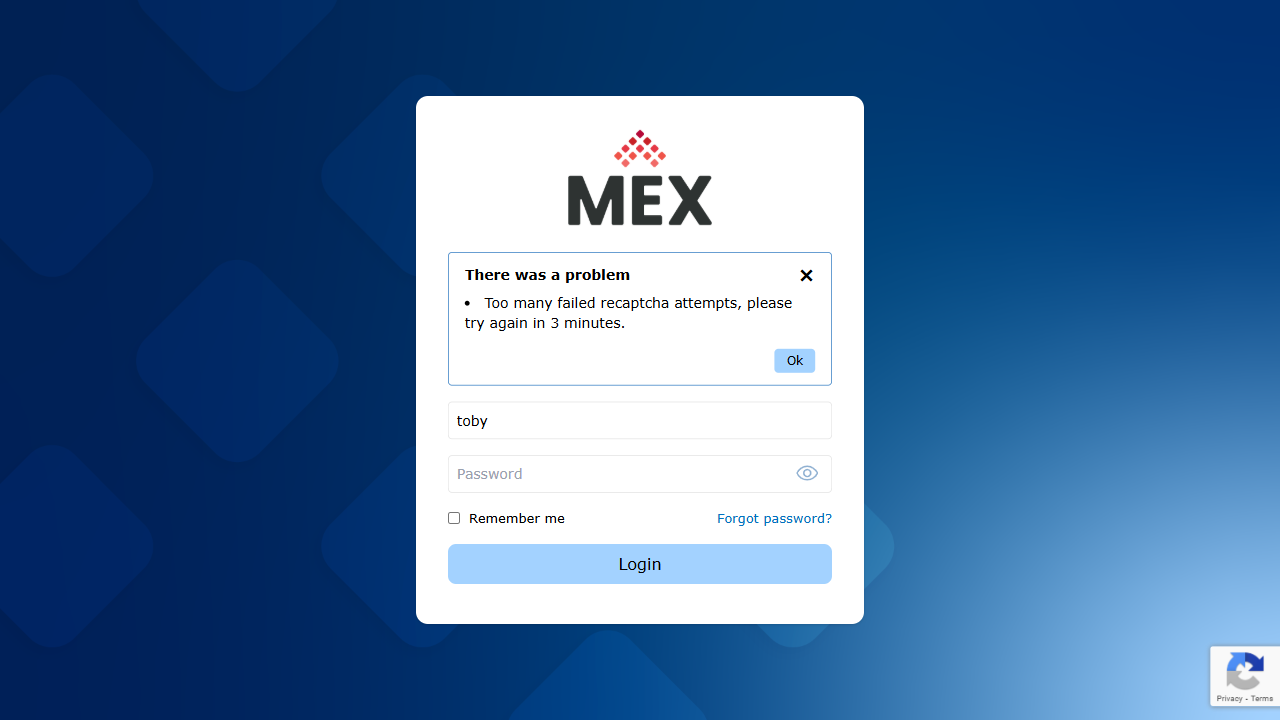
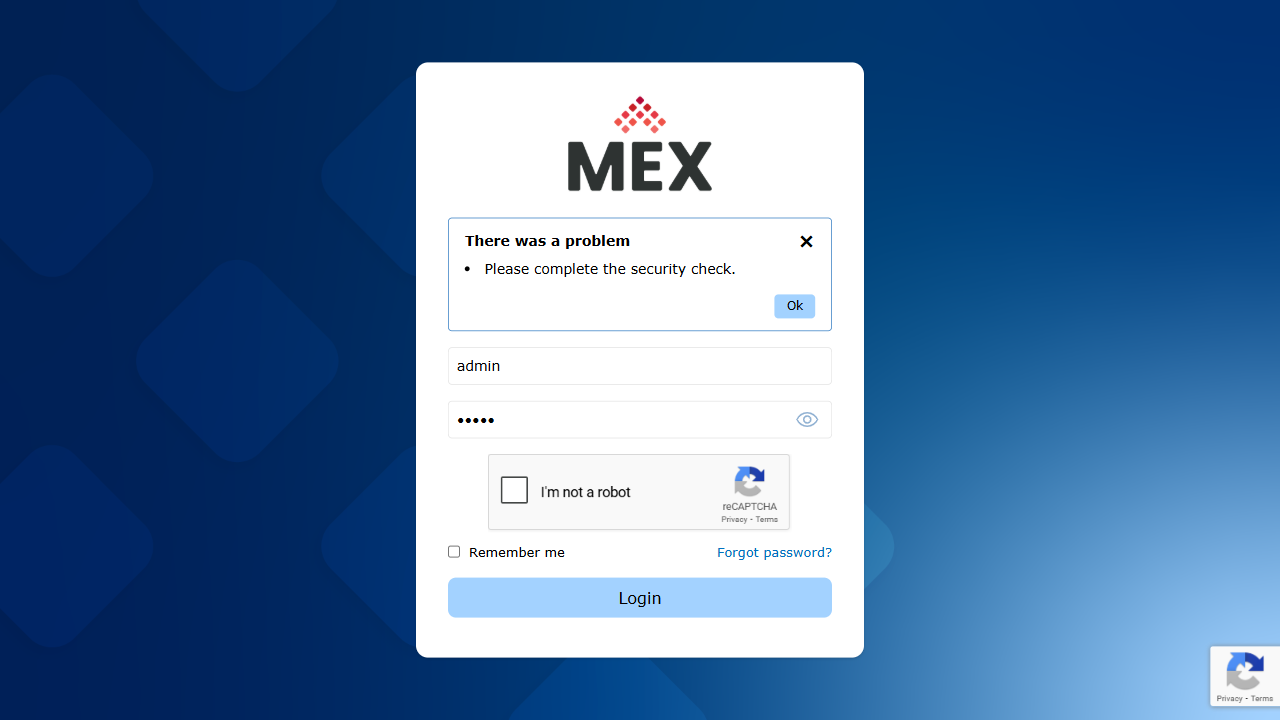
CI Test

diff --git a/debug/login-bounced.html b/debug/login-bounced.html
@@ -32,7 +32,7 @@
                     </div>
                     <div class="space-y-1">
                             <ul class="list-disc list-inside text-primary" automation-list="validationErrors">
-                                        <li automation_label="0">Too many failed recaptcha attempts, please try again in 3 minutes.</li>
+                                        <li automation_label="0">Please complete the security check.</li>
                             </ul>
                     </div>
                     <div class="mt-4 flex justify-end gap-2">
@@ -43,7 +43,7 @@
                 </div>
 
             <div class="w-full border border-solid border-secondary bg-primary rounded mb-4 py-1 text-primary">
-                <input placeholder="Username" class="text-sm w-full px-2 focus:outline-none focus:ring-0 placeholder-gray-400 dark:placeholder-gray-500" aria-required="true" automation-input="userName" type="text" id="Input_UserName" name="Input.UserName" value="toby" style="">
+                <input placeholder="Username" class="text-sm w-full px-2 focus:outline-none focus:ring-0 placeholder-gray-400 dark:placeholder-gray-500" aria-required="true" automation-input="userName" type="text" id="Input_UserName" name="Input.UserName" value="admin" style="">
             </div>
 
             <div class="relative w-full border border-solid border-secondary bg-primary rounded mb-4 py-1 text-primary">
@@ -57,6 +57,12 @@
                 </button>
             </div>
 
+                <script type="text/javascript" async="" charset="utf-8" src="https://www.gstatic.com/recaptcha/releases/7gg7H51Q-naNfhmCP3_R47ho/recaptcha__en.js" crossorigin="anonymous" integrity="sha384-TnttG+UhZcM8I0YLwHFXmjuU0uVv/3X99Itc+0eiXTiqtrwYAZwNs8Q9WliKgfF8"></script><script>
+                    document.addEventListener('DOMContentLoaded', function () {
+                        showRecaptchaV2("loginForm");
+                    });
+                </script>
+                <div id="recaptchaV2" class="g-recaptcha" data-sitekey="6LdaFuErAAAAANh8FyOafajA9uOJO2cz9-OZn0qT" data-theme="light" style="display: flex; justify-content: center; padding-bottom: 10px;"><div style="width: 304px; height: 78px;"><div><iframe title="reCAPTCHA" width="304" height="78" role="presentation" name="a-fhag9skqpdxg" frameborder="0" scrolling="no" sandbox="allow-forms allow-popups allow-same-origin allow-scripts allow-top-navigation allow-modals allow-popups-to-escape-sandbox allow-storage-access-by-user-activation" src="https://www.google.com/recaptcha/api2/anchor?ar=1&amp;k=6LdaFuErAAAAANh8FyOafajA9uOJO2cz9-OZn0qT&amp;co=aHR0cHM6Ly9wci0zMzUxLm1leDE2LmRldjo0NDM.&amp;hl=en&amp;v=7gg7H51Q-naNfhmCP3_R47ho&amp;theme=light&amp;size=normal&amp;anchor-ms=20000&amp;execute-ms=15000&amp;cb=ud2y5mug3lnn"></iframe></div><textarea id="g-recaptcha-response" name="g-recaptcha-response" class="g-recaptcha-response" style="width: 250px; height: 40px; border: 1px solid rgb(193, 193, 193); margin: 10px 25px; padding: 0px; resize: none; display: none;"></textarea></div></div>
 
             <div class="flex items-center justify-between mb-4 text-[13px]">
                 <label class="flex items-center space-x-2">
@@ -72,14 +78,14 @@
 
 
             <input type="hidden" data-val="true" data-val-required="The IsFromMauiClient field is required." id="IsFromMauiClient" name="IsFromMauiClient" value="False" style="">
-        <input name="__RequestVerificationToken" type="hidden" value="CfDJ8ADMg_ZIzndKrWSxq6bdYuMOmxz_lgrO2DahtCZ9Hs8XbLtETpENXJ86lDk7mM16YPQcxGgvk89PVsU7V37BVh6I3pcdRnu7Wx7lf7sUKP9nTOWqp8l1A0-6h7Tj9ZUb47JUs4bQh4VL_bVwIBMcV2A" style=""><input name="Input.RememberMe" type="hidden" value="false" style=""></form>
+        <input name="__RequestVerificationToken" type="hidden" value="CfDJ8AWZ1D6VnrpOv_iNUjxlEgw1f5JD2LcRh4Pac-zzihDKfDX6CXt2yUwyc930PU5ns6lUnwEbzKJY-nObsggNYvsfyAjaF0t1xmaU-baP8iYgkpJE1eKMjM8odKNynEclm4yRngJi9vBVhkCCM2Xx40c" style=""><input name="Input.RememberMe" type="hidden" value="false" style=""></form>
     </div>
 </div>
 
 
     </main>
 
-    <script type="text/javascript" async="" charset="utf-8" src="https://www.gstatic.com/recaptcha/releases/TkacYOdEJbdB_JjX802TMer9/recaptcha__en.js" crossorigin="anonymous" integrity="sha384-Ft89l3aihBBhSrkZ/Syx/7cCCaryQcJICINmdoWVHhaQefSnqabq/akNl06biiHi"></script><script>
+    <script>
         function togglePasswordVisibility() {
             const input = document.getElementById('password');
             if (!input) return;
@@ -214,4 +220,4 @@
 
 
 
-<div><div class="grecaptcha-badge" data-style="bottomright" style="width: 256px; height: 60px; display: block; transition: right 0.3s; position: fixed; bottom: 14px; right: -186px; box-shadow: gray 0px 0px 5px; border-radius: 2px; overflow: hidden;"><div class="grecaptcha-logo"><iframe title="reCAPTCHA" width="256" height="60" role="presentation" name="a-uruocjae2by2" frameborder="0" scrolling="no" sandbox="allow-forms allow-popups allow-same-origin allow-scripts allow-top-navigation allow-modals allow-popups-to-escape-sandbox allow-storage-access-by-user-activation" src="https://www.google.com/recaptcha/api2/anchor?ar=1&amp;k=6LfME-ErAAAAAMGD0xI-MqKKpRkzp2BPFx9gaqnX&amp;co=aHR0cHM6Ly9ib25uaWUubWV4LmNvbS5hdTo0NDM.&amp;hl=en&amp;v=TkacYOdEJbdB_JjX802TMer9&amp;size=invisible&amp;anchor-ms=20000&amp;execute-ms=15000&amp;cb=zd0l9eszo6a8"></iframe></div><div class="grecaptcha-error"></div><textarea id="g-recaptcha-response-100000" name="g-recaptcha-response" class="g-recaptcha-response" style="width: 250px; height: 40px; border: 1px solid rgb(193, 193, 193); margin: 10px 25px; padding: 0px; resize: none; display: none;"></textarea></div><iframe style="display: none;"></iframe></div></body></html>
+<div><div class="grecaptcha-badge" data-style="bottomright" style="width: 256px; height: 60px; display: block; transition: right 0.3s; position: fixed; bottom: 14px; right: -186px; box-shadow: gray 0px 0px 5px; border-radius: 2px; overflow: hidden;"><div class="grecaptcha-logo"><iframe title="reCAPTCHA" width="256" height="60" role="presentation" name="a-h21m0ln9npzu" frameborder="0" scrolling="no" sandbox="allow-forms allow-popups allow-same-origin allow-scripts allow-top-navigation allow-modals allow-popups-to-escape-sandbox allow-storage-access-by-user-activation" src="https://www.google.com/recaptcha/api2/anchor?ar=1&amp;k=6LfME-ErAAAAAMGD0xI-MqKKpRkzp2BPFx9gaqnX&amp;co=aHR0cHM6Ly9wci0zMzUxLm1leDE2LmRldjo0NDM.&amp;hl=en&amp;v=7gg7H51Q-naNfhmCP3_R47ho&amp;size=invisible&amp;anchor-ms=20000&amp;execute-ms=15000&amp;cb=me79dij1igdx"></iframe></div><div class="grecaptcha-error"></div><textarea id="g-recaptcha-response-100000" name="g-recaptcha-response" class="g-recaptcha-response" style="width: 250px; height: 40px; border: 1px solid rgb(193, 193, 193); margin: 10px 25px; padding: 0px; resize: none; display: none;"></textarea></div><iframe style="display: none;"></iframe></div><div style="background-color: rgb(255, 255, 255); border: 1px solid rgb(204, 204, 204); box-shadow: rgba(0, 0, 0, 0.2) 2px 2px 3px; position: absolute; transition: visibility linear 0.3s, opacity 0.3s linear; opacity: 0; visibility: hidden; z-index: 2000000000; left: 0px; top: -10000px;"><div style="width: 100%; height: 100%; position: fixed; top: 0px; left: 0px; z-index: 2000000000; background-color: rgb(255, 255, 255); opacity: 0.05;"></div><div class="g-recaptcha-bubble-arrow" style="border: 11px solid transparent; width: 0px; height: 0px; position: absolute; pointer-events: none; margin-top: -11px; z-index: 2000000000;"></div><div class="g-recaptcha-bubble-arrow" style="border: 10px solid transparent; width: 0px; height: 0px; position: absolute; pointer-events: none; margin-top: -10px; z-index: 2000000000;"></div><div style="z-index: 2000000000; position: relative;"><iframe title="recaptcha challenge expires in two minutes" name="c-fhag9skqpdxg" frameborder="0" scrolling="no" sandbox="allow-forms allow-popups allow-same-origin allow-scripts allow-top-navigation allow-modals allow-popups-to-escape-sandbox allow-storage-access-by-user-activation" src="https://www.google.com/recaptcha/api2/bframe?hl=en&amp;v=7gg7H51Q-naNfhmCP3_R47ho&amp;k=6LdaFuErAAAAANh8FyOafajA9uOJO2cz9-OZn0qT&amp;bft=0dAFcWeA7m56lM13bvqeseUFj1pqA0yXlrABAJXaQ75-ME_4djKFg76KGux65GtmkhLdAi8hRKQaakRDy9seuDPVDs7Cg63q9Xvg" style="width: 100%; height: 100%;"></iframe></div></div></body></html>

diff --git a/tests/fixtures.ts b/tests/fixtures.ts
@@ -7,6 +7,7 @@ import { LoginPage } from '../pages/login/loginPage';
 import { AssetPage } from '../pages/assets/assetPage';
 import { WoPage } from '../pages/workorders/woPage';
 import { PoPage } from '../pages/purchaseorder/poPage';
+import { CataloguePage } from '../pages/catalogue/cataloguePage';
 
 import createAssetData from '../test-data/assets/createAssetData.json';
 import assetDetailsTabData from '../test-data/assets/assetDetailsDetailsTabData.json';
@@ -14,12 +15,14 @@ import assetExtendedTabData from '../test-data/assets/assetDetailsExtendedTabDat
 import createWorkOrderData from '../test-data/work-orders/createWorkOrderData.json';
 import woDetailsTabData from '../test-data/work-orders/woDetailsTabData.json';
 import addWOSpareData from '../test-data/work-orders/woSparesTabData.json';
+import createCatalogueData from '../test-data/catalogue/createCatalogueData.json';
 import createPurchaseOrderData from '../test-data/purchase-orders/createPurchaseOrderData.json';
 
 type MyFixtures = {
   loginPage: LoginPage;
   assetPage: AssetPage;
   woPage: WoPage;
+  cataloguePage: CataloguePage;
   poPage: PoPage;
   poTestData: { createpo: typeof createPurchaseOrderData };
   assetTestData: {
@@ -32,47 +35,55 @@ type MyFixtures = {
     wodetails: typeof woDetailsTabData;
     wospares: typeof addWOSpareData;
   };
+  catalogueTestData: {
+    createcatalogue: typeof createCatalogueData;
+  };  
   assetDataFilePath: string;
   poDataFilePath: string;
+  catalogueFilePath: string;
   woDataFilePath: string;
 };
 
 export const test = baseTest.extend<MyFixtures>({  
-  page: async ({ page }, use) => {
-    const loginPage = new LoginPage(page);
+  
+ // page: async ({ page }, use) => {
+ //   const loginPage = new LoginPage(page);
 
     /*
      Due to the login page loads twice, the following login steps have to run twice.
      Once the recaptcha issue is resolved, the baseURL + storageState code can be removed.
      */
-    await page.goto('/Home?baseRoute=true'); // baseURL + storageState handles auth
-    await loginPage.assertLoginSuccess();
+    //await loginPage.assertLoginSuccess();
+    //await page.goto('/Home?baseRoute=true'); // baseURL + storageState handles auth
+  //  await page.goto('https://staging-automation-test.mex16.dev/');
 
     // Optional small delay for stability
-    await page.waitForTimeout(500);    
+    //await page.waitForTimeout(500);    
     
-    await page.goto('/Home?baseRoute=true'); // baseURL + storageState handles auth
-    await loginPage.assertLoginSuccess();
+    //await page.goto('/Home?baseRoute=true'); // baseURL + storageState handles auth
+  //  await loginPage.assertLoginSuccess();
 
     // ✅ Wait for the Home header to confirm successful login
-    //const homeHeader = page.locator('[automation-header="HomeHeader"]');
-    //await expect(homeHeader).toBeVisible({ timeout: 10000 }); // Wait up to 10s
+  //  const homeHeader = page.locator('[automation-header="HomeHeader"]');
+  //  await expect(homeHeader).toBeVisible({ timeout: 10000 }); // Wait up to 10s
 
     // Optional small delay for stability
-    await page.waitForTimeout(500);
+  //  await page.waitForTimeout(500);
 
 
-    await use(page);
-  },
+  //  await use(page);
+  //},
+  
   // Keep the loginPage fixture for other pages to use
   loginPage: async ({ page }, use) => {
     console.log('🔐 Navigating to login page...');
     const loginPage = new LoginPage(page);
+    await loginPage.navigate();
     // ✅ Perform login (UI interaction still happens)
-    //await loginPage.login(
-    //  loginPage.credentials.validCredentials.username,
-    //  loginPage.credentials.validCredentials.password
-    //);
+    await loginPage.login(
+      loginPage.credentials.validCredentials.username,
+      loginPage.credentials.validCredentials.password
+    );
 
     await use(loginPage);
   },
@@ -84,10 +95,16 @@ export const test = baseTest.extend<MyFixtures>({
     await use(assetPage);
   },
 
-  woPage: async ({ page }, use) => {
+  woPage: async ({ page, loginPage }, use) => {
     const woPage = new WoPage(page);
     await woPage.openWOModule();
     await use(woPage);
+  },
+
+  cataloguePage: async ({ page, loginPage }, use) => {
+    const cataloguePage = new CataloguePage(page);
+    await cataloguePage.openCatalogueModule();
+    await use(cataloguePage);
   },
 
   poPage: async ({ page, loginPage }, use) => {

diff --git a/playwright.config.ts b/playwright.config.ts
@@ -1,57 +1,52 @@
-
-// playwright.config.ts
 import { defineConfig, devices } from '@playwright/test';
-import path from 'path';
-import fs from 'fs';
 
-const BASE_URL = process.env.BASE_URL || 'https://bonnie.mexcmms.com/Account/Login';
-const STORAGE_PATH = path.resolve(__dirname, 'auth-storage.json');
+/**
+ * Read environment variables from file.
+ * https://github.com/motdotla/dotenv
+ */
+// import dotenv from 'dotenv';
+// import path from 'path';
+// dotenv.config({ path: path.resolve(__dirname, '.env') });
 
-// Decide whether to run global setup:
-// - On CI
-// - Or when explicitly requested locally via USE_GLOBAL_SETUP=true
-const shouldRunGlobalSetup = !!process.env.CI || process.env.USE_GLOBAL_SETUP === 'true';
-
-// Only use storageState if the file exists (avoids errors locally when not generated yet)
-const storageStateToUse = fs.existsSync(STORAGE_PATH) ? STORAGE_PATH : undefined;
-
+/**
+ * See https://playwright.dev/docs/test-configuration.
+ */
 export default defineConfig({
   testDir: './tests',
+  /* Run tests in files in parallel */
   testMatch: '**/*.test.ts',
   fullyParallel: true,
+  /* Fail the build on CI if you accidentally left test.only in the source code. */
   forbidOnly: !!process.env.CI,
+  /* Retry on CI only */
   retries: process.env.CI ? 2 : 0,
+  /* Opt out of parallel tests on CI. */
   workers: process.env.CI ? 1 : undefined,
+  /* Reporter to use. See https://playwright.dev/docs/test-reporters */
   reporter: 'html',
-  timeout: 180000, // 3 minutes per test
-
-  // Run once before tests—conditionally (CI or USE_GLOBAL_SETUP)
-  ...(shouldRunGlobalSetup
-    ? { globalSetup: path.resolve(__dirname, './global-setup.ts') }
-    : {}),
-
-  // 🔧 Single unified "use" block
+  /* Shared settings for all the projects below. See https://playwright.dev/docs/api/class-testoptions. */
   use: {
-    baseURL: BASE_URL,
-    // Only preload storageState if file exists
-    storageState: storageStateToUse,
-    headless: true,
+    /* Base URL to use in actions like `await page.goto('/')`. */
+    // baseURL: 'http://127.0.0.1:3000',
+    baseURL: 'https://staging-2025-12-17.mex16.dev/',
 
-    // 🎥 Artifacts
-    video: process.env.CI ? 'retain-on-failure' : 'on',
-    screenshot: 'only-on-failure',
-    trace: process.env.CI ? 'retain-on-failure' : 'on-first-retry',
+    /* Collect trace when retrying the failed test. See https://playwright.dev/docs/trace-viewer */
+    trace: 'on-first-retry',
   },
+  timeout: 180000, // 3 minutes timeout for each test
 
+  /* Configure projects for major browsers and tags */
   projects: [
     {
       name: 'chromium',
       use: { ...devices['Desktop Chrome'] },
     },
+
     {
       name: 'firefox',
       use: { ...devices['Desktop Firefox'] },
     },
+
     {
       name: 'webkit',
       use: { ...devices['Desktop Safari'] },
@@ -64,10 +59,30 @@ export default defineConfig({
       name: 'regression',
       grep: /@regression/,
     },
-    // Uncomment mobile/browser variants if needed
-    // { name: 'Mobile Chrome', use: { ...devices['Pixel 5'] } },
-    // { name: 'Mobile Safari', use: { ...devices['iPhone 12'] } },
-    // { name: 'Microsoft Edge', use: { ...devices['Desktop Edge'], channel: 'msedge' } },
-    // { name: 'Google Chrome', use: { ...devices['Desktop Chrome'], channel: 'chrome' } },
+    /* Test against mobile viewports. */
+    // {
+    //   name: 'Mobile Chrome',
+    //   use: { ...devices['Pixel 5'] },
+    // },
+    // {
+    //   name: 'Mobile Safari',
+    //   use: { ...devices['iPhone 12'] },
+    // },
+
+    /* Test against branded browsers. */
+    // {
+    //   name: 'Microsoft Edge',
+    //   use: { ...devices['Desktop Edge'], channel: 'msedge' },
+    // },
+    // {
+    //   name: 'Google Chrome',
+    //   use: { ...devices['Desktop Chrome'], channel: 'chrome' },
+    // },
   ],
+  /* Run your local dev server before starting the tests */
+  // webServer: {
+  //   command: 'npm run start',
+  //   url: 'http://127.0.0.1:3000',
+  //   reuseExistingServer: !process.env.CI,
+  // },
 });

diff --git a/pages/login/loginPage.ts b/pages/login/loginPage.ts
@@ -38,6 +38,7 @@ export class LoginPage {
       // Use relative path - Playwright will use baseURL from config
       await this.page.goto('/Account/Login');
       await this.page.waitForTimeout(1000);
+      //await this.assertLoginSuccess();
     } catch(error:any){
       throw new Error(`Failed to locate or interact with the username field: ${error.message}`);
     }
@@ -45,7 +46,7 @@ export class LoginPage {
 
   //fill username and password
 
-async login(username: string, password: string) {
+//async login(username: string, password: string) {
     /******
      * Workaround for recapture
      * Temporary disabling the following codes to bypass the login using auth-storage.json
@@ -120,16 +121,19 @@ async login(username: string, password: string) {
       } catch {}
       throw new Error(`Login bounced back to /Account after ${attempts} retry(ies). Saved debug/login-bounced.* (url: ${finalUrl})`);
     }
-  */
+
     // continue with post-login handling
-    await this.assertLoginSuccess();
+    //await this.assertLoginSuccess();
 
   }
+*/
 
-
-/** Bonnie Original Code - recaptcha handling commented out
+  /** Bonnie Original Code - recaptcha handling commented out*/
   async login(username: string, password: string) {
-    await this.page.waitForTimeout(1000);
+    //await this.page.waitForTimeout(1000);
+    // initial waits
+    await this.page.waitForSelector('[automation-input="userName"]', { timeout: 10000 }).catch(()=>{});
+    await this.page.waitForSelector('[automation-input="password"]', { timeout: 10000 }).catch(()=>{});
     await helper.enterValue("userName", username);
     await helper.enterValue("password", password);
     console.log(username + " and " + password);
@@ -142,8 +146,16 @@ async login(username: string, password: string) {
     console.log("Login button is clicked");
     
     await this.page.waitForTimeout(1000);
+
+    await this.assertLoginSuccess();
+    // ✅ Wait for the Home header to confirm successful login
+    const homeHeader = this.page.locator('[automation-header="HomeHeader"]');
+    await expect(homeHeader).toBeVisible({ timeout: 10000 }); // Wait up to 10s 
+
+    // Optional small delay for stability
+    await this.page.waitForTimeout(500);   
   }
-  */
+  
 
 
   async contractorUserLogin() {

diff --git a/tests/catalogue/catalogue-create.test.ts b/tests/catalogue/catalogue-create.test.ts
@@ -1,0 +1,17 @@
+import { test } from '../fixtures';
+
+    /*
+    * Test Case: Create New Catalogue
+    * This test creates a new Catalogue using the data from createCatalogueData.json 
+    * Preconditions: User is logged in and createWorkOrderData.json is available
+    * Steps:
+    * 1. Open Catalogue Listing
+    * 2. Click New button
+    * 3. Enter Number, Description (Part Name), Stock On Hand, and Unit Price
+    * Expected Result: New Catalogue created successfully and appears in the Catalogue Listing
+    * Custom tags: @smoke
+    */    
+    test('Create New Catalogue @smoke @feature-catalogue', async ({ cataloguePage, catalogueTestData }) => {
+        await cataloguePage.createCatalogue(catalogueTestData.createcatalogue.catalogueNumber, catalogueTestData.createcatalogue.partName, catalogueTestData.createcatalogue.StockOnHand, catalogueTestData.createcatalogue.UnitPrice);
+        });
+

diff --git a/tests/assets/asset-register.test.ts b/tests/assets/asset-register.test.ts
@@ -9,6 +9,6 @@ import { test } from '../fixtures';
     * Expected Result: Asset Register loads without errors
     * Custom tags: @smoke
     */
-test('Create new level 1 asset using fixture data @smoke @feature-asset', async ({ assetPage }) => {
+test('Open Asset Module using fixture data @smoke @feature-asset', async ({ assetPage, loginPage }) => {
         await assetPage.openAssetModule();
     });
